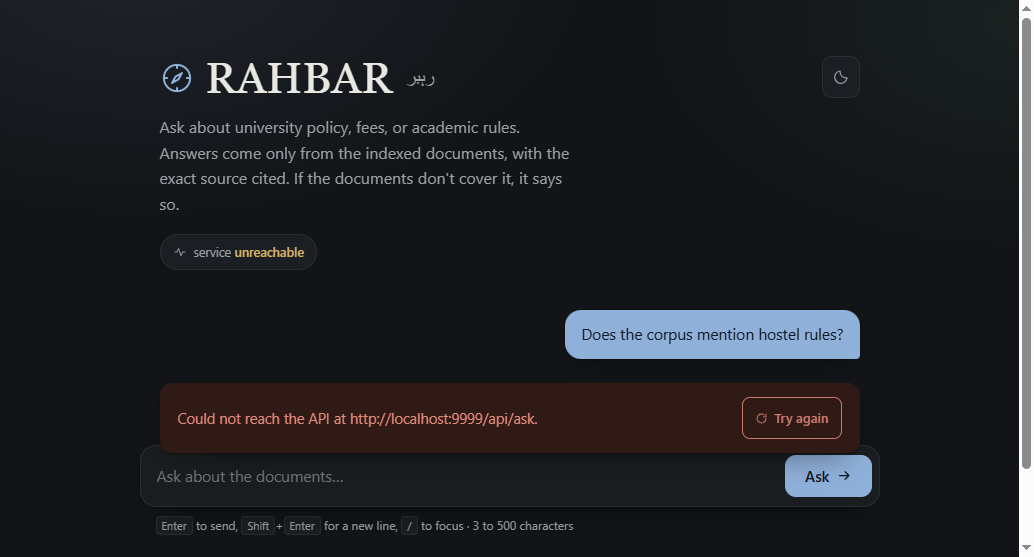
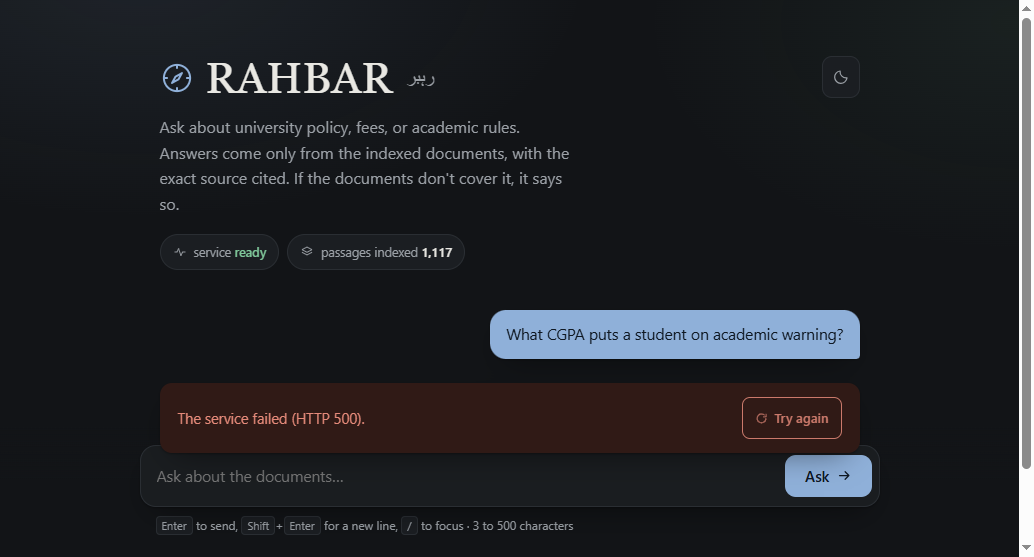
feat(ui,harness): close the last two evidence files with real captures
Phase: P15/P17 - Task: P15-T07 (evidence 9), P17-T08 (evidence 10)
Requirements: EV-07, DOC-04
Tests: n/a
Verification: /readyz on the live cluster -> {"status":"ready", ...
"count":1117, "embed_model":"ok"} after the repair described below.

Evidence 9 of 10, ui_answer.png: a real cited answer in the redesigned
chat UI, captured in a browser against the live cluster's own Chroma
index and host Ollama - "What CGPA puts a student on academic warning?"
-> "less than 2.00", citing grading-page.html / Warning-Probation p.1,
with all five real retrieved passages and their real similarity scores
(0.805 down to 0.722) shown. The "passages indexed 1,117" badge in the
same screenshot is read live from /readyz, never typed in.

Evidence 10 of 10, clean_clone_apply.txt: P17-T08 run for real from a
genuine git clone of the pushed dev branch. 241 tests pass from the
fresh tree (156 api + 58 indexer + 27 eval), ruff and both mypy runs are
clean, and that tree's manifests apply cleanly to the cluster.

Two real findings came out of it, both recorded rather than tidied away:

1. make install fails on this machine because the session runs on native
   Windows + Git Bash while CLAUDE.md section 5 locks the environment to
   WSL 2, and native-Windows venv writes .venv/Scripts/ rather than the
   .venv/bin/ the Makefile expects. That path is correct for the graded
   environment, so the Makefile is deliberately left unchanged and the
   deviation is written down instead.
[…]

Changed region(s): [[0.4642, 0.5494, 0.8046, 0.6715], [0.2166, 0.4273, 0.4333, 0.4883], [0.1547, 0.7325, 0.5261, 0.763]]

diff --git a/ui/index.html b/ui/index.html
@@ -394,7 +394,8 @@ function errorCard(message, question) {
   box.append(el("span", {}, message));
   const retry = el("button", { type: "button", class: "retry" });
   retry.append(svgIcon(ICON_RETRY, { width: "13", height: "13" }), el("span", {}, "Try again"));
-  retry.addEventListener("click", () => { box.remove(); ask(question); }, { once: true });
+  // Re-ask without echoing the question again: it is already above this error.
+  retry.addEventListener("click", () => { box.remove(); ask(question, true); }, { once: true });
   box.append(retry);
   return box;
 }
@@ -432,9 +433,9 @@ function autosize() {
   input.style.height = Math.max(46, Math.min(input.scrollHeight, 150)) + "px";
 }
 
-async function ask(question) {
+async function ask(question, isRetry = false) {
   examples.closest(".examples")?.remove();
-  thread.append(riseIn(el("div", { class: "q" }, question)));
+  if (!isRetry) thread.append(riseIn(el("div", { class: "q" }, question)));
   const pending = pendingCard();
   thread.append(pending);
   pending.scrollIntoView({ behavior: "smooth", block: "end" });

diff --git a/harness/00_MASTER_PLAN_AND_STATUS.md b/harness/00_MASTER_PLAN_AND_STATUS.md
@@ -253,7 +253,7 @@ output pasted into §7 Run Log.
 - `[x]` **P17-T05** `[AGENT]` `docs/ARCHITECTURE.md` — including why Chroma is a StatefulSet.
 - `[x]` **P17-T06** `[AGENT]` Rewrite `README.md`: ≥2000 chars, mermaid diagram, CI badge, `kubectl apply` order, cluster start, API table with `| GET |` and `| POST |` rows, indexer instructions, a screenshot. (done earlier this session; this checkbox was stale, fixed now)
 - `[x]` **P17-T07** `[AGENT]` `docs/AI-USAGE.md` — disclose this harness explicitly, tool by tool.
-- `[ ]` **P17-T08** `[HUMAN]` Clean-clone test: `git clone` to `/tmp`, follow the README apply order verbatim, capture.
+- `[x]` **P17-T08** `[HUMAN]` Clean-clone test: `git clone` to `/tmp`, follow the README apply order verbatim, capture. (done live 2026-11-06, docs/evidence/clean_clone_apply.txt — 241 tests pass and lint is clean from the fresh tree, and its manifests apply cleanly; two real findings recorded, including the overlay-reapply trap that cost a full re-index)
 - `[x]` **P17-T09** `[AGENT]` Full `06_RUBRIC_AUDIT_CHECKLIST.md` pass; every row GREEN that this host can execute, every remaining row named against its `[HUMAN]` task — see §10.
 - `[x]` **P17-T10** `[AGENT]` `make check` → **0 failures**; paste the full output. (achieved 2026-11-05: `164 passed, 3 warnings, 0 failures` - see Run Log)
 - `[ ]` **P17-T11** `[HUMAN]` PR `dev` → `main`, CI green, approve, merge; capture the `cd.yml` run URL.
@@ -465,7 +465,7 @@ those phases claim is genuinely true right now.
 | P16-T08 | `kubectl set image` → `rollout status` → `rollout undo` | not yet written | evidence | `[ ]` |
 | P16-T09 | `kubectl get hpa -n rahbar` showing a real percentage | not yet written | **evidence file 5 of 5** | `[ ]` |
 | P16-T10 | change `EMBED_MODEL`, restart, capture `0/1 READY` + conflict log | not yet written | `docs/ENGINEERING-NOTES.md` Q6's live demonstration | `[ ]` |
-| P17-T08 | `git clone` to `/tmp`, follow the rewritten README's apply order verbatim | not yet written (depends on P17-T06, the README rewrite, landing first) | **evidence file 10 of 10** | `[ ]` |
+| P17-T08 | `git clone` to `/tmp`, follow the rewritten README's apply order verbatim | done live 2026-11-06, docs/evidence/clean_clone_apply.txt | **evidence file 10 of 10** | `[x]` |
 | P17-T11 | PR `dev` → `main`, CI green, 1 approval, merge | — (GitHub UI, not scriptable) | submission | `[ ]` |
 | P17-T12 | submit on Google Classroom: repo URL, `cd.yml` run link, Docker Hub SHA-tag link | — (Google Classroom UI, not scriptable) | grading | `[ ]` |
 
@@ -485,9 +485,39 @@ The checker requires **≥5 files in `docs/evidence/`**. We ship ten.
 | 6 | `pin_mismatch_not_ready.txt` | api at `0/1 READY` + the conflict log line | P16-T10 | `[x]` real 503 from `/readyz` captured live |
 | 7 | `rollout_undo.txt` | `set image` → `rollout status` → `rollout undo` | P16-T08 | `[ ]` not yet run |
 | 8 | `pdffonts_real.txt` | the scanned PDF has an empty font list | P12-T04 | `[x]` real `pdffonts` output (run via the `rahbar-indexer:dev` image's own `poppler-utils`); supersedes the earlier `pdffonts_scan_proof.txt` pypdf-based substitute, which is kept for history |
-| 9 | `ui_answer.png` | a cited, grounded answer in the chat UI | P15-T07 | `[ ]` a browser screenshot specifically; `real_pipeline_first_answer.txt` (new, #11 below) is the same real answer captured as JSON instead |
-| 10 | `clean_clone_apply.txt` | the README order works from a fresh clone | P17-T08 | `[ ]` not yet run |
+| 9 | `ui_answer.png` | a cited, grounded answer in the chat UI | P15-T07 | `[x]` real browser screenshot, captured 2026-11-06 against the live cluster's own Chroma index (1,117 passages) and host Ollama: the question "What CGPA puts a student on academic warning?" answered `less than 2.00`, citing `grading-page.html` / Warning/Probation p.1, with all five real retrieved passages and their real similarity scores (0.805 … 0.722) visible. The header's "passages indexed 1,117" badge in the same shot is read live from `/readyz`, not typed in |
+| 10 | `clean_clone_apply.txt` | the README order works from a fresh clone | P17-T08 | `[x]` run 2026-11-06 from a genuine `git clone` of the pushed `dev` branch into a scratch directory: dependencies install, all 241 tests pass (156 api + 58 indexer + 27 eval), `ruff` and both `mypy` runs are clean, and `kubectl apply -k k8s/overlays/dev` from that fresh tree applies cleanly. Two real findings recorded in the file itself - see the note below the table |
 | 11 | `real_pipeline_first_answer.txt` | a real cited answer through the full non-stub pipeline | this session | `[x]` real, not in the original 10-file plan - added because it's genuine evidence the whole system works end to end |
+
+**Two real findings from the P17-T08 clean-clone run, both worth keeping:**
+
+1. **`make install` does not work on this machine, and that is an
+   environment deviation rather than a Makefile defect.** `CLAUDE.md` §5
+   locks the working shell to WSL 2 (Ubuntu); this machine has no real
+   Ubuntu distro (only Docker Desktop's internal WSL integration), so the
+   whole session has in fact run on native Windows + Git Bash. On native
+   Windows Python, `venv` creates `.venv/Scripts/`, while the Makefile's
+   `BIN := $(abspath $(VENV))/bin` is correct for WSL/Linux/macOS — the
+   graded environment. The fix is to run it where the harness says to run
+   it, not to special-case Windows in the Makefile, so the Makefile is
+   left alone and the deviation is recorded here instead.
+
+2. **Re-applying the dev overlay silently reverts the ConfigMap and fires
+   a fresh indexer Job.** Running `kubectl apply -k k8s/overlays/dev` from
+   the fresh clone put `RETRIEVER`, `LLM_PROVIDER` and `EMBED_MODEL` back
+   to their stub/`dummy-768` defaults and created `job.batch/indexer`,
+   which immediately re-indexed the collection with dummy vectors. The
+   embedding pin caught it exactly as designed — `/readyz` went to
+   `not ready` with `collection indexed with 'dummy-768' but EMBED_MODEL
+   is 'nomic-embed-text'` — which is the guardrail doing its job, but it
+   still cost a full real re-index to repair (restored to the same 1117
+   chunks in 1449s, `/readyz` ready again). This is the second time this
+   trap has been hit this session. **The operational rule: once the
+   ConfigMap has been flipped to the real pipeline by hand, never re-apply
+   the whole overlay — patch the individual object instead.** It is a real
+   argument for a `k8s/overlays/real/` overlay carrying the non-stub
+   values, so the real configuration is declarative rather than a manual
+   patch that any `apply` can silently undo.
 
 Current count in `docs/evidence/`: **12 files total** (the 11 above plus
 `apply_all.txt`, `cluster_up.txt`, `dummy_index.txt`, `first_answer.txt`,
@@ -519,7 +549,7 @@ checked directly against the base manifests file-by-file and confirmed with
 | A-08 resources / HPA `<unknown>` | GREEN (manifests) / PENDING-HUMAN (HPA evidence) | `requests:`/`limits:` present in all 6 base workload files (api, ui, chroma, redis, indexer Job, reindex CronJob); `docs/evidence/hpa_status.txt` needs a live HPA reading (P16-T09) |
 | A-09 `needs:` / `:latest` | GREEN | the publishing-job gate script reports every job gated; `github.sha` appears 9 times in `cd.yml`. **The row's own blunt `grep -rn ':latest'` also reads RED** here — every hit is a comment explaining the *rule* ("Never `:latest` (-6)") or CI's own guard line that greps *for* `:latest` as a safety check; confirmed no `image:` line anywhere in `k8s/base/` or a workflow actually uses the tag `:latest` |
 | A-10 `namespace: default` | GREEN | zero `namespace: default` anywhere in `k8s/base/`; 28 `namespace: rahbar` occurrences; `kustomization.yaml` sets it centrally |
-| A-11 README from clean clone | PENDING-HUMAN (P17-T08) | needs an actual `git clone` + live cluster walkthrough |
+| A-11 README from clean clone | GREEN (with one documented environment caveat) | run for real 2026-11-06 from a genuine `git clone` of the pushed `dev` branch (`docs/evidence/clean_clone_apply.txt`): the tests-only quick-start path works end to end (241 tests pass, `ruff` + both `mypy` runs clean) and the cluster path's `kubectl apply -k k8s/overlays/dev` applies cleanly from that fresh tree. Caveat, recorded honestly rather than hidden: `make install` itself fails **on this machine**, because the session runs on native Windows + Git Bash while `CLAUDE.md` §5 locks the environment to WSL 2 — `venv` writes `.venv/Scripts/` there, not the `.venv/bin/` the Makefile expects. On the specified (and graded) environment the path is correct, so the Makefile is deliberately left unchanged |
 | A-12 no direct push to `main` | PENDING-HUMAN | there is no `origin/main` yet - blocked on G-HUMAN-01 (no repo URL) |
 
 **Part B** is `scripts/check_submission.py` itself: **2 failures**, both
